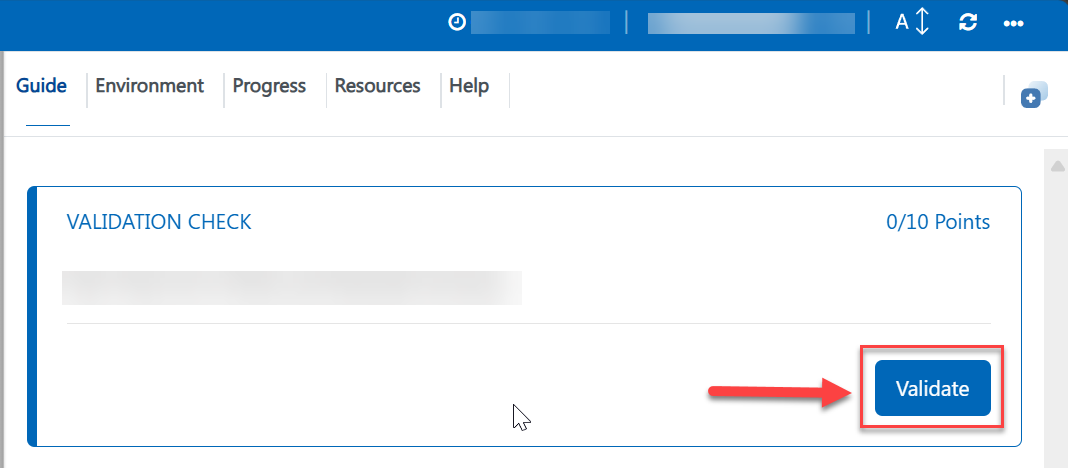
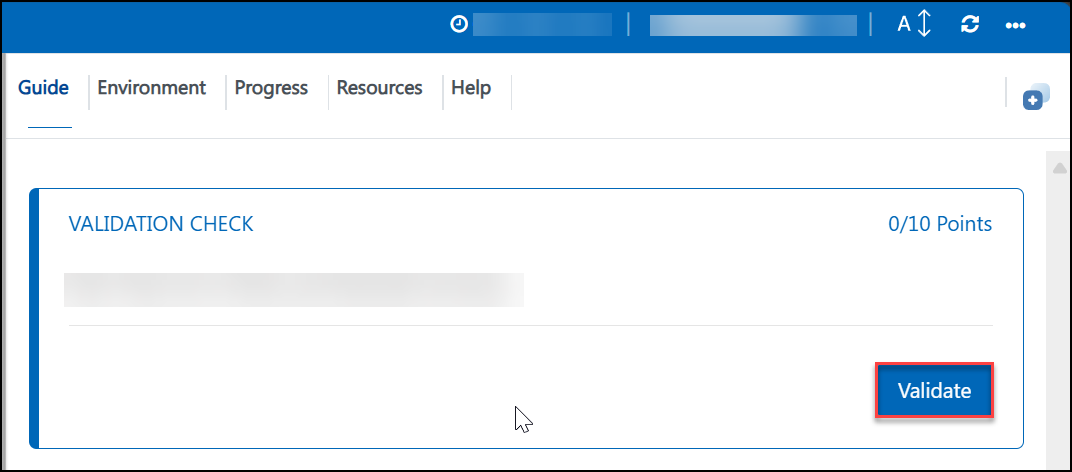
updated labguide 1

Changed region(s): [[0.0, 0.0, 1.0, 1.0], [0.0618, 0.4487, 0.2472, 0.5085], [0.8343, 0.4487, 0.927, 0.5085]]

diff --git a/MicroL/Labguides/labguide-1.md b/MicroL/Labguides/labguide-1.md
@@ -56,10 +56,10 @@ cat /opt/logs/application.log
 
 Expected sample entries:
 
-```text
-[error] Database connection failed
-[error] Backend timeout
-[error] Authentication failed
+```
+ [error] Database connection failed
+ [error] Backend timeout
+ [error] Authentication failed
 ```
 
 > Note: Do not modify the contents of the log file. Validation will verify the script against the existing log data.

diff --git a/MicroL/Labguides/GettingStarted.md b/MicroL/Labguides/GettingStarted.md
@@ -104,3 +104,4 @@ The CloudLabs support team is available 24/7 throughout your lab experience.
 ---
 
 Click **Next >>** to begin the assessment.
+![alt text](image-13.png)